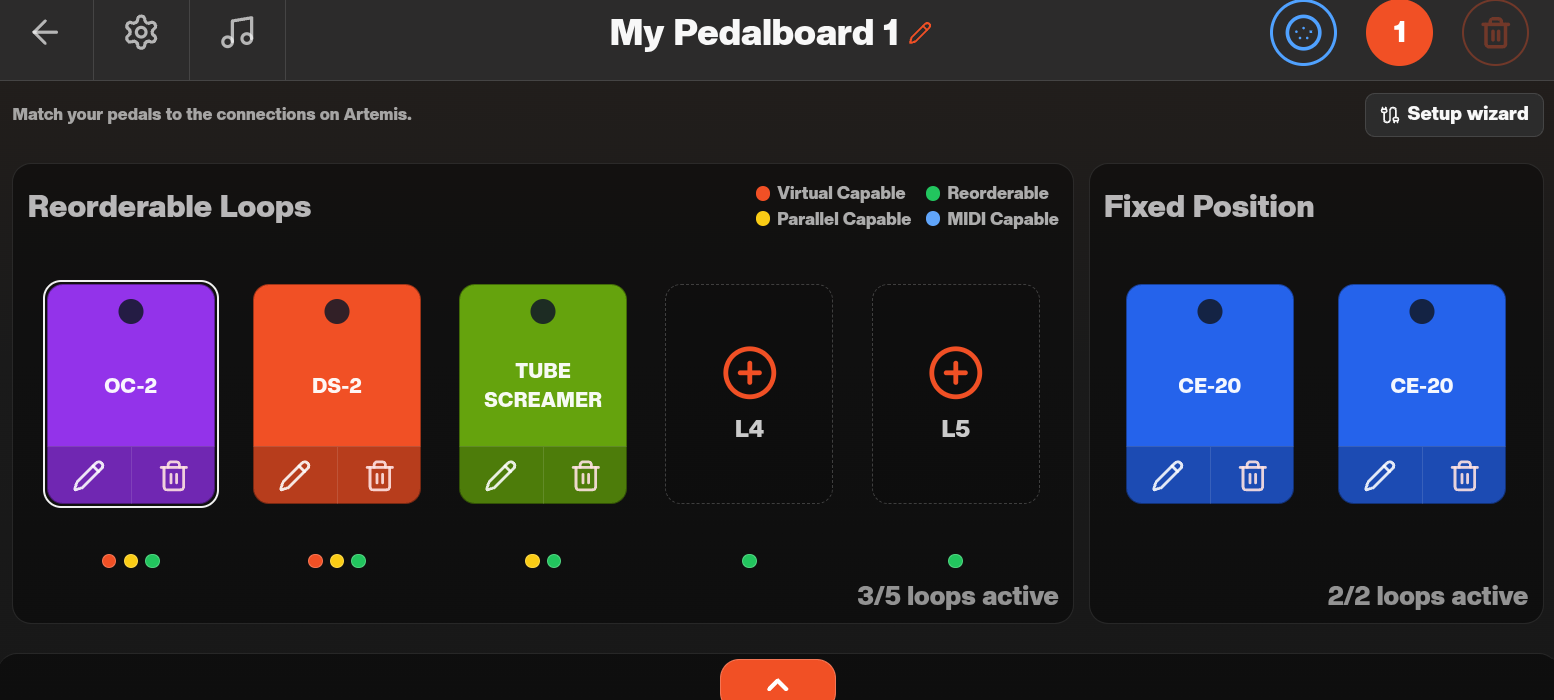
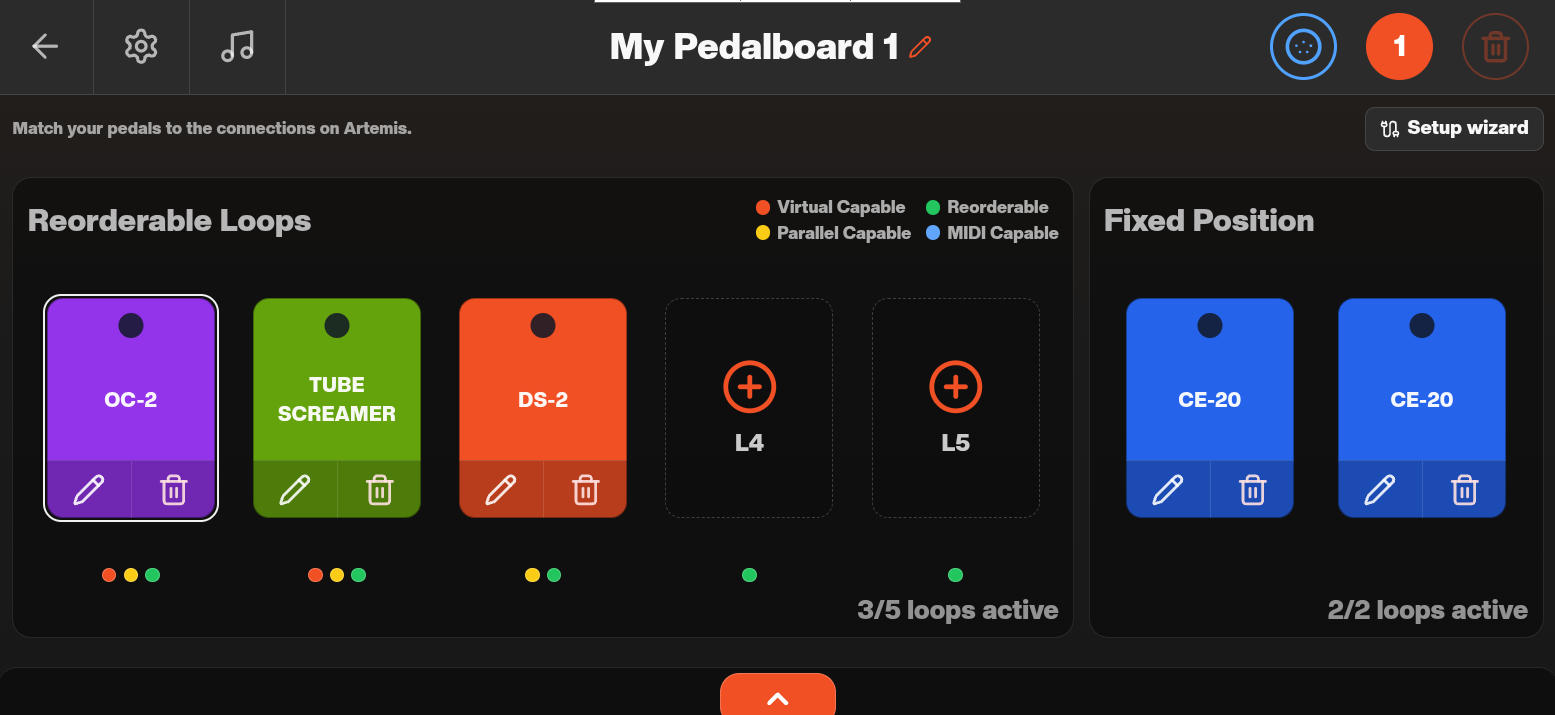
tidied mypedalboard section

diff --git a/README.md b/README.md
@@ -5,6 +5,10 @@
 ## Table of Contents
 
 - [Introduction](#introduction)
+- [Houston](#houston)
+  - [Houston Home Screen](#houston-home-screen)
+  - [My Pedalboard](#my-pedalboard)
+  - [Presets, Songs and Setlists](#presets-songs-and-setlists)
 - [Quick Start](#quick-start)
 - [Connections](#connections)
 - [Routing Basics](#routing-basics)
@@ -62,35 +66,74 @@ The screen below shows Houston's Home screen, this is a handy pop up that takes 
 
 ### My Pedalboard
 
-My Pedalboard is how you tell Artemis what pedals are plugged in, so the Preset Editor matches your exact pedalboard colours and pedal names. This is the first thing you should do after booting into houston. You can go to My Pedalboard by either using the shortcut on the home screen popup or by finding it in the home carousel, which you can acess by pressing the Home icon found in the top navigation bar.
+My Pedalboard tells Artemis which pedals are connected to each physical loop. The names and colours you choose help you recognise those pedals in the Preset Editor. Set up My Pedalboard when you first open Houston, before building your presets.
 
-Here is what the physical setup looks like which will be used for this example:
+**Setup order:** check your connections → choose a pedalboard configuration → add pedals to the library → assign them to the matching loops → check the result before building a preset.
 
-![Physical Routing Configuration](assets/images/physical_setup.jpg)
+#### 1. Check your physical connections
 
-We have:
-- BOSS OC-2 plugged into L1
-- Ibanez TS9 plugged into L2
-- BOSS DS-2 plugged into L3
-- BOSS CE-20 plugged into the Stereo L6/L7 Slot
+Start with the pedals connected to Artemis and make a note of which loop each pedal uses. See [Connections](#connections) for send/return wiring and [Routing Basics](#routing-basics) for signal-path options.
 
-You can find detailed information on all routing configurations in the [Routing and Connections](Connections) Section. A key thing to bare in mind though is that only the first three slots L1-L3 are parallel capable, so if you have any effects you definitely need on that Bus, just make sure they are plugged into the first three slots. It should't matter too much though as you can always swap the buses around in software either way!
+**Plan your loop connections before setup:** L1–L3 can be assigned to either Bus A or Bus B; L4–L5 are restricted to Bus A. Connect any pedal you need on Bus B to L1, L2 or L3. L6/L7 form the fixed stereo loop.
 
-This is what My Pedalboard will look like on first boot, you can also select between different pedalboard configurations (maybe you are in more than one band and use a different pedalboard) by choosing the different pedalboards saved 1/2/3 etc. in the navigation bar.
+The walkthrough uses the following physical setup:
 
-![Empty My Pedalboard](assets/screenshots/empty_my_pedalboard.png)
+![Physical pedalboard used for the walkthrough](assets/images/physical_setup.jpg)
 
-The next thing to do is go and re-create what pedals you have in My Pedalboard. To do this, click on an empty pedal slot, or drag up the library from the bottom of the screen and click + add pedal, when the drawer opens.
+| Artemis loop | Connected pedal | Name used in My Pedalboard |
+| --- | --- | --- |
+| L1 | BOSS OC-2 | OC-2 |
+| L2 | Ibanez TS9 | TUBE SCREAMER |
+| L3 | BOSS DS-2 | DS-2 |
+| L4–L5 | Unused | Leave empty |
+| L6/L7 | BOSS CE-20, connected in stereo | CE-20 in both L6 and L7 |
 
-![Creating a pedal in My Pedalboard](assets/screenshots/create_a_new_pedal.png)
+#### 2. Open My Pedalboard and choose a configuration
 
-Once you have created all of the pedals, they will appear in your library like this:
+Open **My Pedalboard** using the shortcut in the Home pop-up. Alternatively, tap the **Home** icon in the top navigation bar to open the home carousel, find **My Pedalboard**, and tap **Edit**.
 
-![All pedals now added to the My Pedalboard Library](assets/screenshots/populate_mypedalboard_library.png)
+Choose the pedalboard configuration you want to set up using the numbered selector in the navigation bar. You can keep separate configurations for different physical pedalboards, such as boards you use with different bands. This walkthrough uses **My Pedalboard 1**.
 
-Next, you can simply drag the pedals into the correct slots, like how they are physically wired into the back of the Artemis. For Stereo pedals like the CE-20, simply just drag in the pedal twice, once into L6 and another time into L7. Don't get too caught up with the naming and look of the pedals, it is just to make the preset editor a bit easier and pretty, Artemis still does all of the routing behind the scenes for you.
+On first setup, the loop slots are empty:
 
-![Fully Setup My Pedalboard](assets/screenshots/fully_setup_mypedalboard.png)
+![My Pedalboard 1 with empty loop slots](assets/screenshots/empty_my_pedalboard.png)
+
+#### 3. Add your pedals to the library
+
+Create one library entry for each pedal in the example:
+
+1. Drag the library drawer up from the bottom of the screen and tap **+ Add Pedal**. You can also begin by tapping an empty pedal slot.
+2. Enter a **Pedal Name**, then choose a **Category** and **Colour**. Use a name and colour that make the pedal easy to recognise.
+3. Tap **Add** to add the pedal to your library.
+4. Repeat for the remaining pedals. Create the stereo CE-20 entry once; you will use it in both L6 and L7.
+
+![New pedal dialog with Pedal Name, Category, Colour and Add controls](assets/screenshots/create_a_new_pedal.png)
+
+Your library should now contain OC-2, TUBE SCREAMER, DS-2 and CE-20. The order in the library does not determine their loop assignments.
+
+![Pedal library containing the four example pedals](assets/screenshots/populate_mypedalboard_library.png)
+
+#### 4. Assign pedals to the matching loops
+
+Drag each pedal from the library into the slot that matches its physical connection:
+
+1. Drag **OC-2** into **L1**.
+2. Drag **TUBE SCREAMER** into **L2**.
+3. Drag **DS-2** into **L3**.
+4. Leave **L4** and **L5** empty.
+5. Drag **CE-20** into **L6**, then drag the same library entry into **L7** to represent both stereo channels.
+
+**Match the physical loop numbers here.** You will choose the order in which effects process your signal later in the Preset Editor. The pedal names and colours help identify each effect.
+
+![Completed My Pedalboard with OC-2 in L1, TUBE SCREAMER in L2, DS-2 in L3 and CE-20 in L6 and L7](assets/screenshots/fully_setup_mypedalboard.png)
+
+#### 5. Check your setup and continue
+
+Compare the on-screen assignments with the cables connected to Artemis. For this example, L1–L3 should contain the three mono pedals, L4–L5 should be empty, and CE-20 should appear in both L6 and L7.
+
+If you also use MIDI-controlled pedals, see [MIDI Librarian](#midi-librarian) for instructions on finding your devices in the MIDI library and adding them to the current pedalboard configuration.
+
+Once your pedalboard setup is complete, continue to [Quick Start](#quick-start) to get your first sound, or [Building a Preset](#building-a-preset) to arrange your effects and create your first preset.
 
 ### Presets, Songs and Setlists
 
@@ -104,7 +147,7 @@ Next, you can simply drag the pedals into the correct slots, like how they are p
 
 ### First-time setup
 
-Follow [Launchpad Basics](#launchpad-basics) for initial setup, then [open Houston](#opening-houston) to begin the walkthrough.
+Follow [Launchpad Basics](#launchpad-basics) for initial setup, then [open Houston](#houston). Before building a preset, use [My Pedalboard](#my-pedalboard) to match the on-screen pedals to your physical connections.
 
 - [ ] Identify the starting screen and initial settings needed for the first-sound walkthrough.
 
